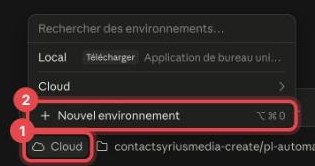
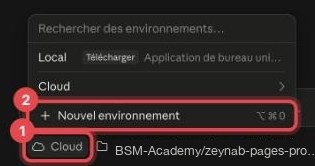
GitHub fusionné avec la création de l'environnement ; capture Nouvel environnement sans le compte perso

Changed region(s): [[0.3429, 0.8434, 1.0, 0.9639]]

diff --git a/index.html b/index.html
@@ -170,21 +170,6 @@ summary{cursor:pointer;font-weight:700}
     <p>Fais l'installation sur un <b>ordinateur</b>.</p>
   </section>
 
-  <!-- GitHub -->
-  <section class="ecran" data-bouton="C'est fait">
-    <span class="partie">GitHub</span>
-    <h2>Connecte Claude à GitHub</h2>
-    <p>Déjà fait ? Clique directement sur « C'est fait ».</p>
-    <ol>
-      <li>Pas encore de compte GitHub ? Crée-le (gratuit) : <a href="https://github.com/signup" target="_blank" rel="noopener">github.com/signup</a>.</li>
-      <li>Ouvre claude.ai/code (bouton 1 en bas). La première fois, Claude te propose de <b>connecter GitHub</b> : accepte. S'il ne te propose rien, c'est que c'est déjà fait : clique sur « C'est fait ».</li>
-      <li>GitHub te demande où installer Claude : laisse <b>All repositories</b> coché, comme ici, puis clique sur le bouton vert <b>Install</b>. Si tu ne vois jamais cette page, ouvre-la avec le bouton 2.</li>
-    </ol>
-    <img class="capture" src="img/github-claude.jpg" alt="Réglage GitHub Repository access avec All repositories entouré">
-    <a class="lien" href="https://claude.ai/code" target="_blank" rel="noopener">1. Ouvrir claude.ai/code</a>
-    <a class="lien" href="https://github.com/apps/claude/installations/new" target="_blank" rel="noopener">2. Installer Claude sur GitHub</a>
-  </section>
-
   <!-- Kie -->
   <section class="ecran" data-bouton="J'ai ma clé Kie">
     <span class="partie">Ta clé Kie</span>
@@ -252,13 +237,21 @@ summary{cursor:pointer;font-weight:700}
   <!-- Atelier -->
   <section class="ecran" data-bouton="La fenêtre est ouverte">
     <span class="partie">Mon atelier · 1/3</span>
-    <h2>Crée mon environnement</h2>
-    <p>L'environnement, c'est l'atelier où je travaille. Sur <a href="https://claude.ai/code" target="_blank" rel="noopener">claude.ai/code</a>, tout en bas sous la zone de message :</p>
-    <img class="capture etroite" src="img/env-nouveau.jpg" alt="Bouton Cloud et menu Nouvel environnement entourés">
+    <h2>Ouvre Claude et crée mon environnement</h2>
+    <p>L'environnement, c'est l'atelier où je travaille. Tout se passe sur claude.ai/code (bouton 1 en bas) :</p>
     <ol>
+      <li>Pas encore de compte GitHub ? Crée-le (gratuit) : <a href="https://github.com/signup" target="_blank" rel="noopener">github.com/signup</a>.</li>
+      <li>La première fois, Claude te propose de <b>connecter GitHub</b> : accepte. GitHub te demande où installer Claude : laisse <b>All repositories</b> coché, puis clique sur le bouton vert <b>Install</b>. S'il ne te propose rien, c'est déjà fait. Si ça bloque, utilise le bouton 2.</li>
+    </ol>
+    <img class="capture" src="img/github-claude.jpg" alt="Réglage GitHub Repository access avec All repositories entouré">
+    <p>Ensuite, tout en bas sous la zone de message :</p>
+    <img class="capture etroite" src="img/env-nouveau.jpg" alt="Bouton Cloud et menu Nouvel environnement entourés">
+    <ol start="3">
       <li>Clique sur le bouton avec le <b>petit nuage</b>.</li>
       <li>Clique sur <b>Nouvel environnement</b>.</li>
     </ol>
+    <a class="lien" href="https://claude.ai/code" target="_blank" rel="noopener">1. Ouvrir claude.ai/code</a>
+    <a class="lien" href="https://github.com/apps/claude/installations/new" target="_blank" rel="noopener">2. Installer Claude sur GitHub</a>
   </section>
 
   <section class="ecran" data-bouton="C'est fait">
